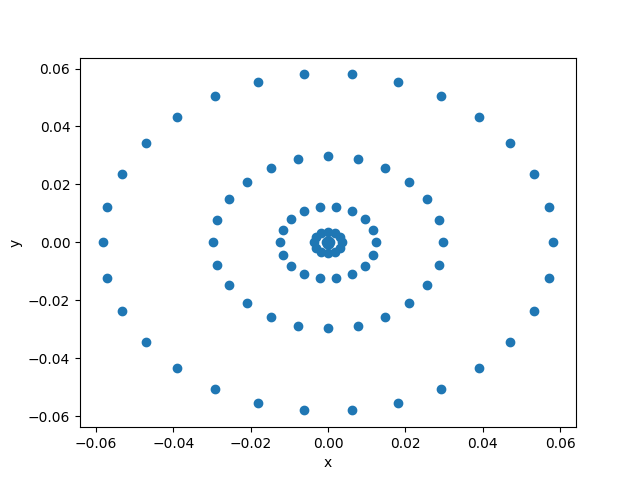
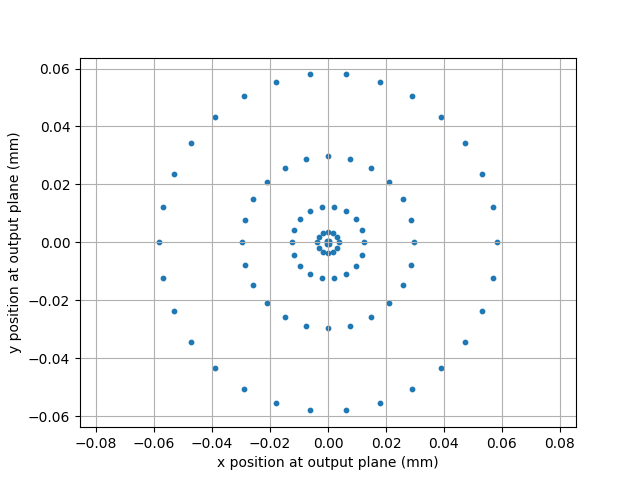
Up to Task 18 2 problems remain

diff --git a/raytracer/analysis.py b/raytracer/analysis.py
@@ -1,12 +1,14 @@
 """Analysis module."""
 
-from operator import itemgetter
 import matplotlib.pyplot as plt
 import numpy as np
+from scipy.optimize import minimize
+from operator import itemgetter
 from raytracer._utils.decorators import SaveOutput
 from raytracer.rays import Ray, RayBundle
 from raytracer.elements import SphericalRefraction, OutputPlane
-from raytracer.lenses import PlanoConvex
+from raytracer.lenses import PlanoConvex, BiConvex
+
 
 def task8():
     """
@@ -354,8 +356,7 @@ def task16():
 
     for lens in lenses:
         focal_point = lens.focal_point()
-        focal_length = np.round(focal_point - lens.z_0() - lens.thickness(), 2)
-        print(focal_length)
+        focal_length = focal_point - lens.z_0()
         op = OutputPlane(focal_point)
         elements = [lens, op]
         rms_list = []
@@ -373,6 +374,7 @@ def task16():
         bundle = RayBundle(3.5, 5, 6)
         bundle.propagate_bundle(elements)
         rms_35mm_list.append(bundle.rms())
+        print(bundle.rms())
         diffraction_scale_35mm_list.append(scale(wavelength, focal_length, 3.5))
 
     fig = plt.figure()
@@ -410,7 +412,35 @@ def task17():
     Returns:
         tuple[Figure, float, float]: The combined spot plot, RMS for the PC lens, RMS for the BiConvex lens
     """
-    return
+
+    pc_lens = PlanoConvex(curvature=0.02)
+    pc_focal_point = pc_lens.focal_point()
+    pc_op = OutputPlane(pc_focal_point)
+    pc_bundle = RayBundle()
+    pc_bundle.propagate_bundle([pc_lens, pc_op])
+    pc_rms = pc_bundle.rms()
+
+    def minimize_func(curvatures):
+        """Function to be minimized"""
+        curvature_1 = curvatures[0]
+        curvature_2 = curvatures[1]
+        bc_lens = BiConvex(curvature1 = curvature_1, curvature2 = curvature_2)
+        bc_bundle = RayBundle()
+        bc_bundle.propagate_bundle([bc_lens, pc_op])
+        bc_rms = bc_bundle.rms()
+        return bc_rms
+
+    optimal_curvatures = minimize(minimize_func, [0.02, -0.02])
+    optimized_c1 = optimal_curvatures.x[0]
+    optimized_c2 = optimal_curvatures.x[1]
+    bc_lens = BiConvex(curvature1 = optimized_c1, curvature2 = optimized_c2)
+    bc_bundle = RayBundle()
+    bc_bundle.propagate_bundle([bc_lens, pc_op])
+    bc_rms = bc_bundle.rms()
+    fig = pc_bundle.spot_plot()
+    fig = bc_bundle.spot_plot(fig=fig)
+    fig = bc_bundle.track_plot()
+    return fig, pc_rms, bc_rms
 
 
 @SaveOutput("task18", plot_output_indices=itemgetter(0))
@@ -491,7 +521,7 @@ if __name__ == "__main__":
     FIG16, PC_RMS, CP_RMS, TASK16_DIFF_SCALE = task16()
 
     # Run task 17 function
-    # FIG17, CP_RMS, BICONVEX_RMS = task17()
+    FIG17, CP_RMS, BICONVEX_RMS = task17()
 
     # Run task 18 function
     # FIG18, FOCAL_POINT = task18()

diff --git a/raytracer/lenses.py b/raytracer/lenses.py
@@ -79,3 +79,84 @@ class PlanoConvex(elements.OpticalElement):
         if og_length == new_length:
             return
         self.sr_2.propagate_ray(ray)
+
+class BiConvex(elements.OpticalElement):
+    """Creates BiConvex lens"""
+    def __init__(
+        self,
+        *,
+        z_0 = 100,
+        curvature1 = 0.02,
+        curvature2 = -0.02,
+        n_inside = 1.5168,
+        n_outside = 1.0,
+        thickness = 5.0,
+        aperture = 50.0,
+    ):
+        """Initializes the Bi Convex Lens"""
+        self.__z_0 = z_0
+        self.__curvature1 = curvature1
+        self.__curvature2 = curvature2
+        self.__n_inside = n_inside
+        self.__n_outside = n_outside
+        self.__thickness = thickness
+        self.__aperture = aperture
+
+        self.sr_1 = elements.SphericalRefraction(
+            z_0 = self.z_0(),
+            aperture = self.aperture(),
+            curvature = self.curvature1(),
+            n_1 = self.n_outside(),
+            n_2 = self.n_inside(),
+        )
+
+        self.sr_2 = elements.SphericalRefraction(
+            z_0 = self.z_0() + self.thickness(),
+            aperture = self.aperture(),
+            curvature = self.curvature2(),
+            n_1 = self.n_inside(),
+            n_2 = self.n_outside(),
+        )
+
+    def z_0(self):
+        """Return the z_0 position"""
+        return self.__z_0
+
+    def curvature1(self):
+        """Return the curvature1"""
+        return self.__curvature1
+
+    def curvature2(self):
+        """Return the curvature2"""
+        return self.__curvature2
+
+    def n_inside(self):
+        """Return the refractive index inside the lens"""
+        return self.__n_inside
+
+    def n_outside(self):
+        """Return the refractive index outside the lens"""
+        return self.__n_outside
+
+    def thickness(self):
+        """Return the lens thickness"""
+        return self.__thickness
+
+    def aperture(self):
+        """Return the aperture"""
+        return self.__aperture
+
+    def intercept(self, ray):
+        return self.sr_1.intercept(ray)
+
+    def propagate_ray(self, ray):
+        """Intercept of one ray with the lens"""
+        og_length = len(ray.vertices())
+        self.sr_1.propagate_ray(ray)
+        new_length = len(ray.vertices())
+        if og_length == new_length:
+            return
+        self.sr_2.propagate_ray(ray)
+
+
+

diff --git a/raytracer/.Inheritence Biconvex.py b/raytracer/.Inheritence Biconvex.py
@@ -1,0 +1,39 @@
+class BiConvex(PlanoConvex):
+    """Creates a BiConvex lens"""
+    def __init__(
+        self,
+        *,
+        z_0 = 100,
+        curvature1=0.02,
+        curvature2=-0.02,
+        n_inside=1.5168,
+        n_outside=1.0,
+        thickness=5.0,
+        aperture=50.0,
+    ):
+        """Initializes the biconvex lens."""
+
+        super().__init__(
+            z_0 = z_0,
+            curvature = curvature1,
+            n_inside = n_inside,
+            n_outside = n_outside,
+            thickness = thickness,
+            aperture = aperture,
+        )
+
+        self.sr_1 = elements.SphericalRefraction(
+            z_0 = self.z_0(),
+            aperture = self.aperture(),
+            curvature = curvature1,
+            n_1 = self.n_outside(),
+            n_2 = self.n_inside(),
+        )
+
+        self.sr_2 = elements.SphericalRefraction(
+            z_0=self.z_0() + self.thickness(),
+            aperture = self.aperture(),
+            curvature = curvature2,
+            n_1 = self.n_inside(),
+            n_2 = self.n_outside(),
+        )

diff --git a/raytracer/rays.py b/raytracer/rays.py
@@ -114,13 +114,23 @@ class RayBundle:
         rms = np.sqrt(np.mean(magnitude_squared))
         return rms
 
-    def spot_plot(self):
+    def spot_plot(self, fig = None, label = None):
         """Shows the intersection between the rays and an arbitrary plane"""
         x_y_vertices = self.xy(self.rays)
         x_position = x_y_vertices[:, 0]
         y_position = x_y_vertices[:, 1]
-        fig = plt.figure()
-        plt.scatter(x_position, y_position)
-        plt.xlabel("x")
-        plt.ylabel("y")
+
+        if fig is None:
+            fig = plt.figure()
+        else:
+            plt.figure(fig.number)
+
+        plt.scatter(x_position, y_position, s=10, label=label)
+        plt.axis("equal")
+        plt.xlabel("x position at output plane (mm)")
+        plt.ylabel("y position at output plane (mm)")
+        plt.grid(True)
+
+        if label is not None:
+            plt.legend()
         return fig

diff --git a/raytracer/elements.py b/raytracer/elements.py
@@ -37,7 +37,6 @@ class OpticalElement:
 
     def focal_point(self):
         """Calculates the paraxial focus of this object"""
-        #ys = np.linspace(0.01, 0.1, 50)
         ys = [0.01, 0.02, 0.05, 0.1]
         z_crossings = []
         for i in ys:
@@ -123,7 +122,8 @@ class SphericalRefraction(OpticalElement):
         l_1 = -r_dot_k_hat + np.sqrt(discriminant)
         l_2 = -r_dot_k_hat - np.sqrt(discriminant)
         l_vals = np.array([l_1, l_2])
-        possible_l_vals = l_vals[l_vals > 0]
+        EPS = 1e-9
+        possible_l_vals = l_vals[l_vals > EPS]
 
         if possible_l_vals.size == 0:
             return None
@@ -167,6 +167,9 @@ class SphericalRefraction(OpticalElement):
             normal = -normal
 
         new_direc = physics.refract(direc, normal, self.n_1(), self.n_2())
+
+        if new_direc is None:
+            return None
 
         return ray.append(new_position, new_direc)
 
